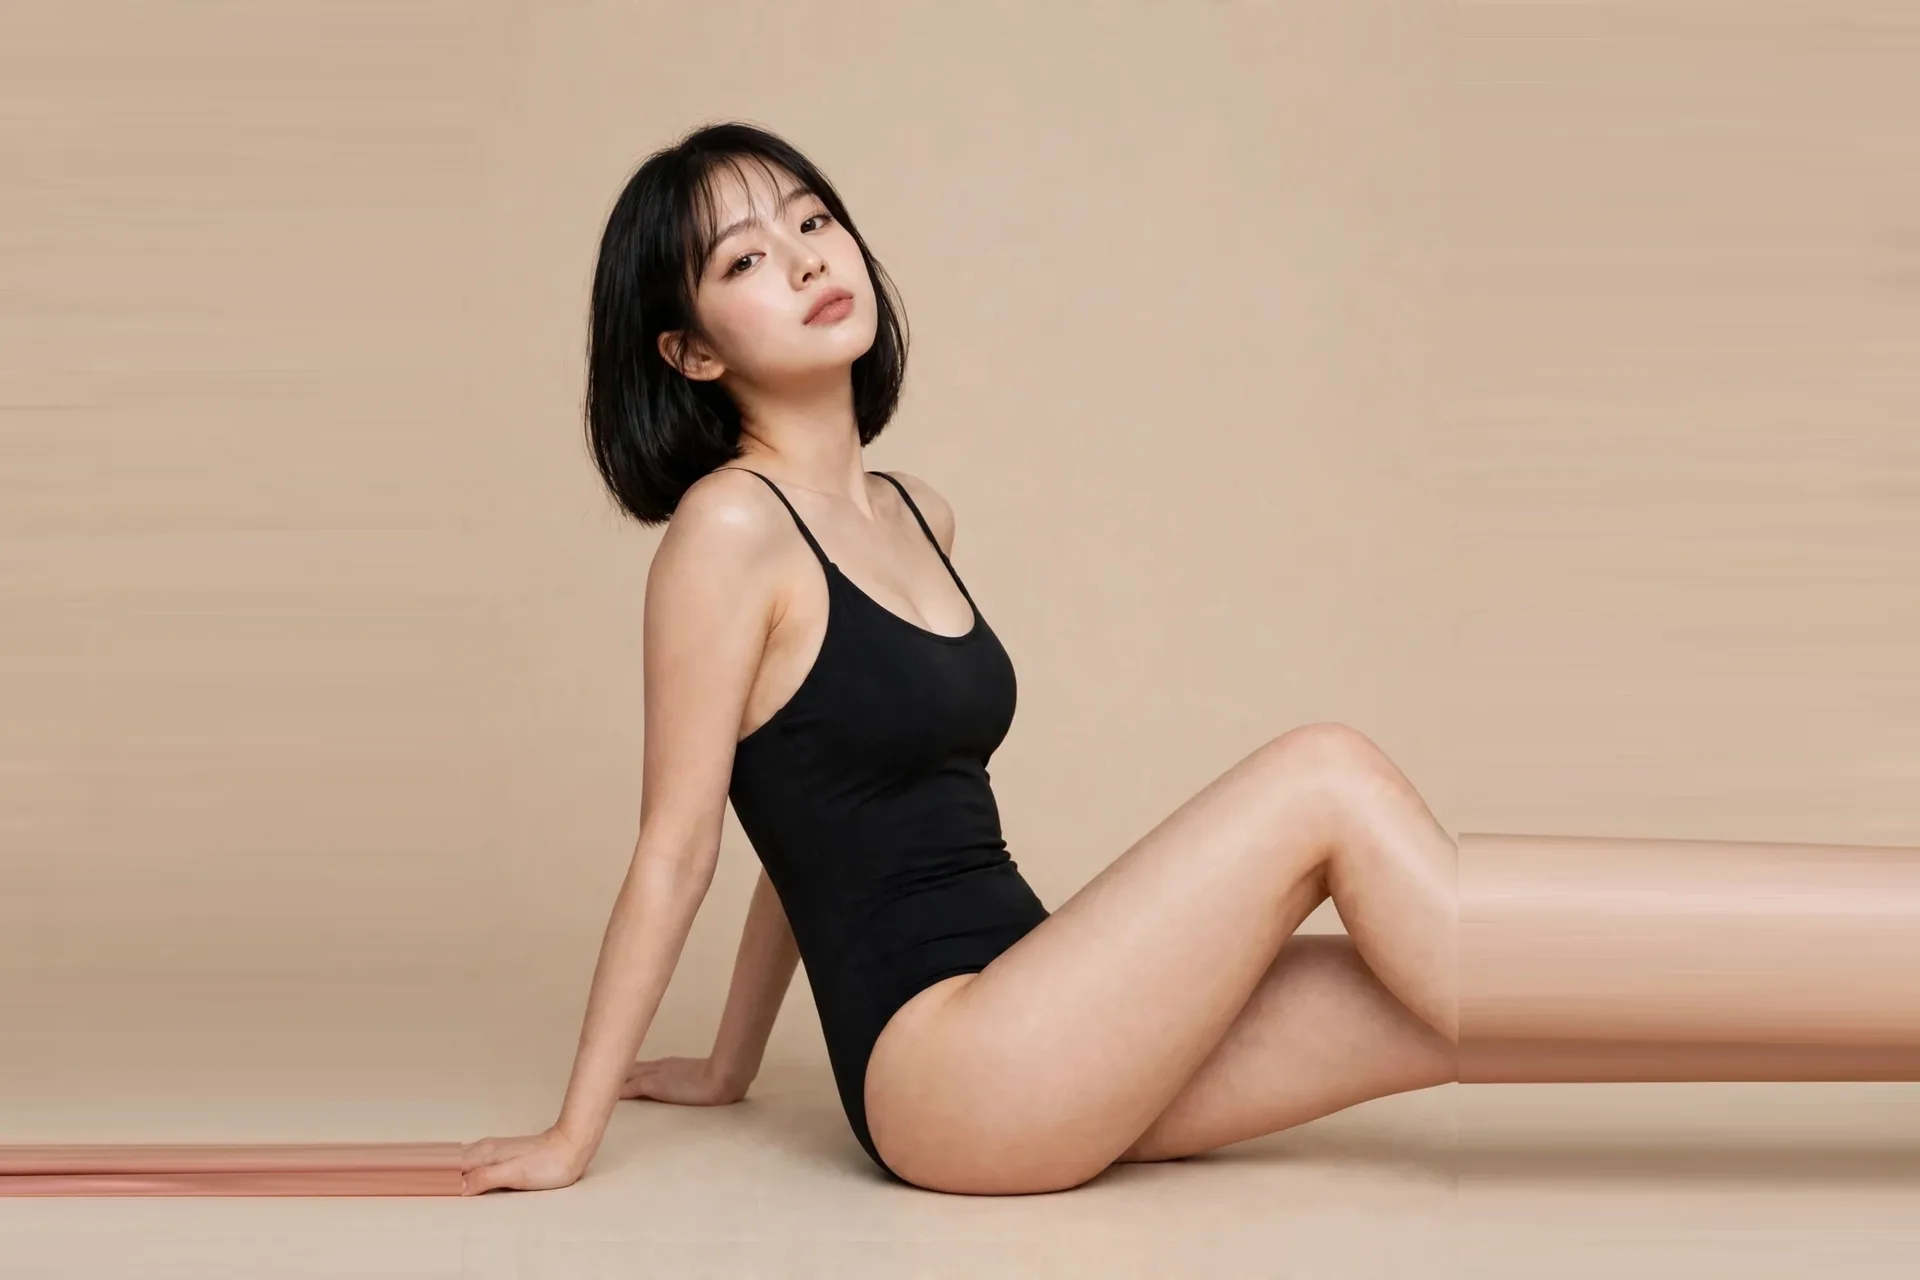
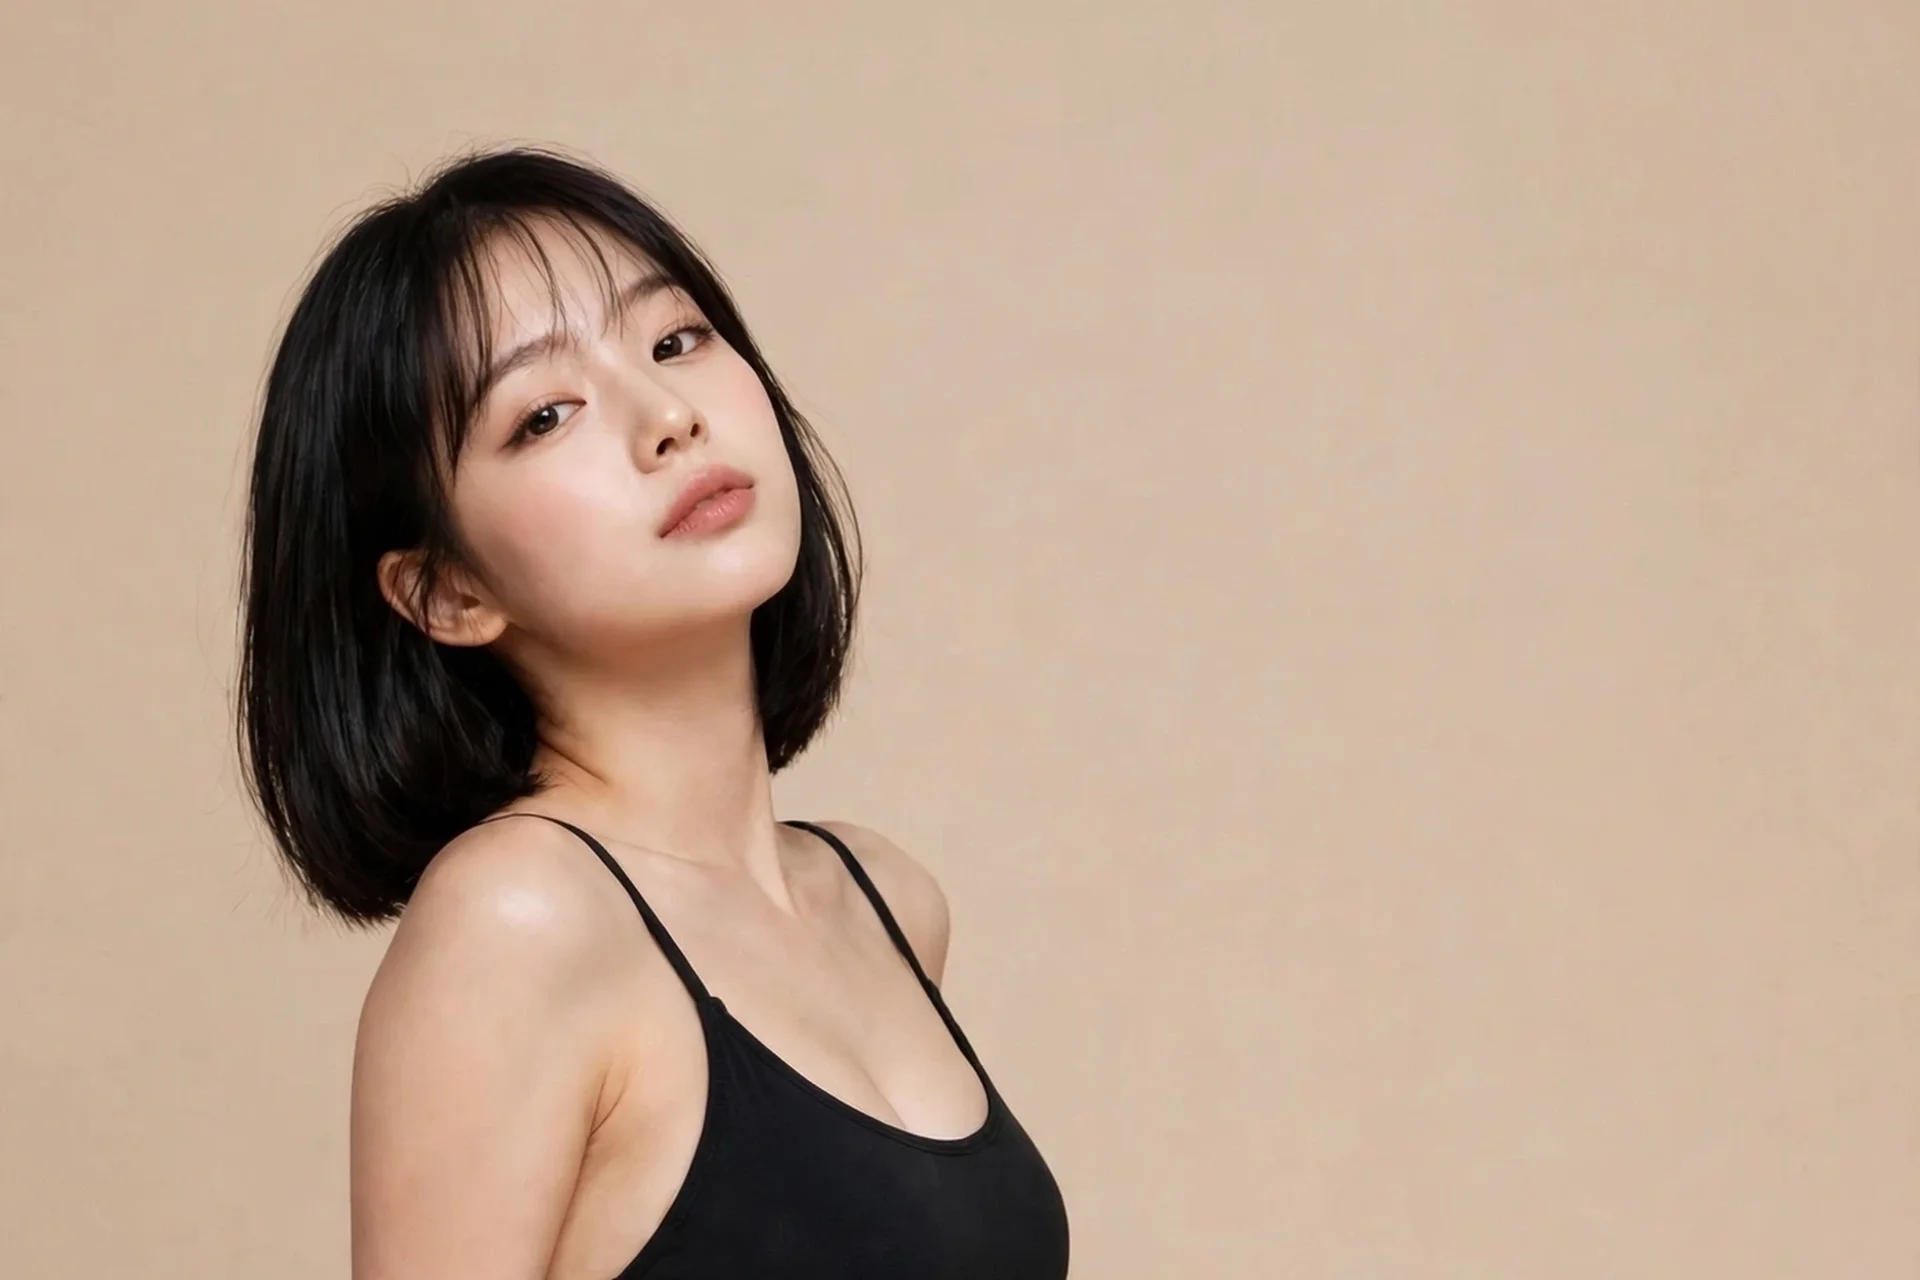
Fix Sena cuts batch 1: life 6-8 v2 face landscape, swim 2 smear crop (v258)

diff --git a/index.html b/index.html
@@ -51,7 +51,7 @@
 <body>
 <header>
   <h1 id="album-title">Mia's Album</h1>
-  <p id="album-sub">확정 얼굴 기준의 컷 모음 (총 177컷) · 버전 257</p>
+  <p id="album-sub">확정 얼굴 기준의 컷 모음 (총 177컷) · 버전 258</p>
   <div class="char-switch" role="tablist" aria-label="캐릭터 선택">
     <button type="button" class="char-btn active" id="btn-mia">Mia</button>
     <button type="button" class="char-btn" id="btn-sua">Sua</button>
@@ -415,7 +415,7 @@
     <div class="card" data-cap="Sena 수영장 4 — 버건디 원피스 수영복, 음료 들고 풀 데크 워킹"><img src="img/sena-pool-w4.webp" alt="Sena 수영장 4"><div class="cap">버건디 원피스 · 데크 워킹</div></div>
     <div class="card" data-cap="Sena 수영장 5 — 옐로 원피스 수영복, 선베드에 누워 책 읽다가 올려다봄"><img src="img/sena-pool-5.webp" alt="Sena 수영장 5"><div class="cap">옐로 원피스 · 선베드 독서</div></div>
     <div class="card" data-cap="Sena 스튜디오 수영복 1 — 화이트 원피스 수영복, 한 손 허리 전신"><img src="img/sena-swim-w1.webp" alt="Sena 스튜디오 수영복 1"><div class="cap">화이트 원피스 · 전신</div></div>
-    <div class="card" data-cap="Sena 스튜디오 수영복 2 — 블랙 원피스 수영복, 바닥에 앉아 턱 든 시크"><img src="img/sena-swim-w2.webp" alt="Sena 스튜디오 수영복 2"><div class="cap">블랙 원피스 · 바닥 앉아 시크</div></div>
+    <div class="card" data-cap="Sena 스튜디오 수영복 2 — 블랙 원피스 수영복, 턱 든 클로즈업 시크"><img src="img/sena-swim-w2.webp" alt="Sena 스튜디오 수영복 2"><div class="cap">블랙 원피스 · 클로즈업 시크</div></div>
     <div class="card" data-cap="Sena 스튜디오 수영복 3 — 네이비 원피스 수영복, 무릎 안고 앉아 올려다봄 하이앵글"><img src="img/sena-swim-w3.webp" alt="Sena 스튜디오 수영복 3"><div class="cap">네이비 원피스 · 올려다봄</div></div>
     <div class="card" data-cap="Sena 스튜디오 수영복 4 — 레드 원피스 수영복, 허리 숙여 무릎에 손 얹고 올려다봄"><img src="img/sena-swim-w4.webp" alt="Sena 스튜디오 수영복 4"><div class="cap">레드 원피스 · 허리 숙여 올려다봄</div></div>
     <div class="card" data-cap="Sena 스튜디오 수영복 5 — 에메랄드 원피스 수영복, 벽에 기대 몸 기울인 포즈"><img src="img/sena-swim-w5.webp" alt="Sena 스튜디오 수영복 5"><div class="cap">에메랄드 원피스 · 벽 기대기</div></div>
@@ -988,27 +988,27 @@
     btnYuna.classList.toggle('active', name === 'yuna');
     if (name === 'ciel'){
       albumTitle.textContent = "Ciel's Album";
-      albumSub.textContent = '단발 귀여운상 기준의 컷 모음 (총 4컷) · 버전 257';
+      albumSub.textContent = '단발 귀여운상 기준의 컷 모음 (총 4컷) · 버전 258';
       document.title = "Ciel's Album";
     } else if (name === 'sena'){
       albumTitle.textContent = "Sena's Album";
-      albumSub.textContent = '시크한 단발 귀염상 기준의 컷 모음 (총 50컷) · 버전 257';
+      albumSub.textContent = '시크한 단발 귀염상 기준의 컷 모음 (총 50컷) · 버전 258';
       document.title = "Sena's Album";
     } else if (name === 'sua'){
       albumTitle.textContent = "Sua's Album";
-      albumSub.textContent = '차분한 귀염상 기준의 컷 모음 (총 223컷) · 버전 257';
+      albumSub.textContent = '차분한 귀염상 기준의 컷 모음 (총 223컷) · 버전 258';
       document.title = "Sua's Album";
     } else if (name === 'lena'){
       albumTitle.textContent = "Lena's Album";
-      albumSub.textContent = '긴 웨이브 청순상 기준의 컷 모음 (총 0컷) · 버전 257';
+      albumSub.textContent = '긴 웨이브 청순상 기준의 컷 모음 (총 0컷) · 버전 258';
       document.title = "Lena's Album";
     } else if (name === 'yuna'){
       albumTitle.textContent = "Yuna's Album";
-      albumSub.textContent = '긴 웨이브 청순 성숙상 기준의 컷 모음 (총 87컷) · 버전 257';
+      albumSub.textContent = '긴 웨이브 청순 성숙상 기준의 컷 모음 (총 87컷) · 버전 258';
       document.title = "Yuna's Album";
     } else {
       albumTitle.textContent = "Mia's Album";
-      albumSub.textContent = '확정 얼굴 기준의 컷 모음 (총 177컷) · 버전 257';
+      albumSub.textContent = '확정 얼굴 기준의 컷 모음 (총 177컷) · 버전 258';
       document.title = "Mia's Album";
     }
     cards = allCards.filter(c => c.offsetParent !== null);

diff --git a/sw.js b/sw.js
@@ -1,4 +1,4 @@
-const CACHE = 'influencer-album-v257';
+const CACHE = 'influencer-album-v258';
 const IMGCACHE = 'album-images-v1';
 const CORE = ['./', './index.html', './manifest.webmanifest', './icon-192.png', './icon-512.png',
   './img/face-anchor.webp', './img/sua-anchor-main2.webp', './img/ciel-anchor-main.webp', './img/sena-anchor-main.webp', './img/lena-face-anchor.webp', './img/yuna-anchor-main2.webp'];
